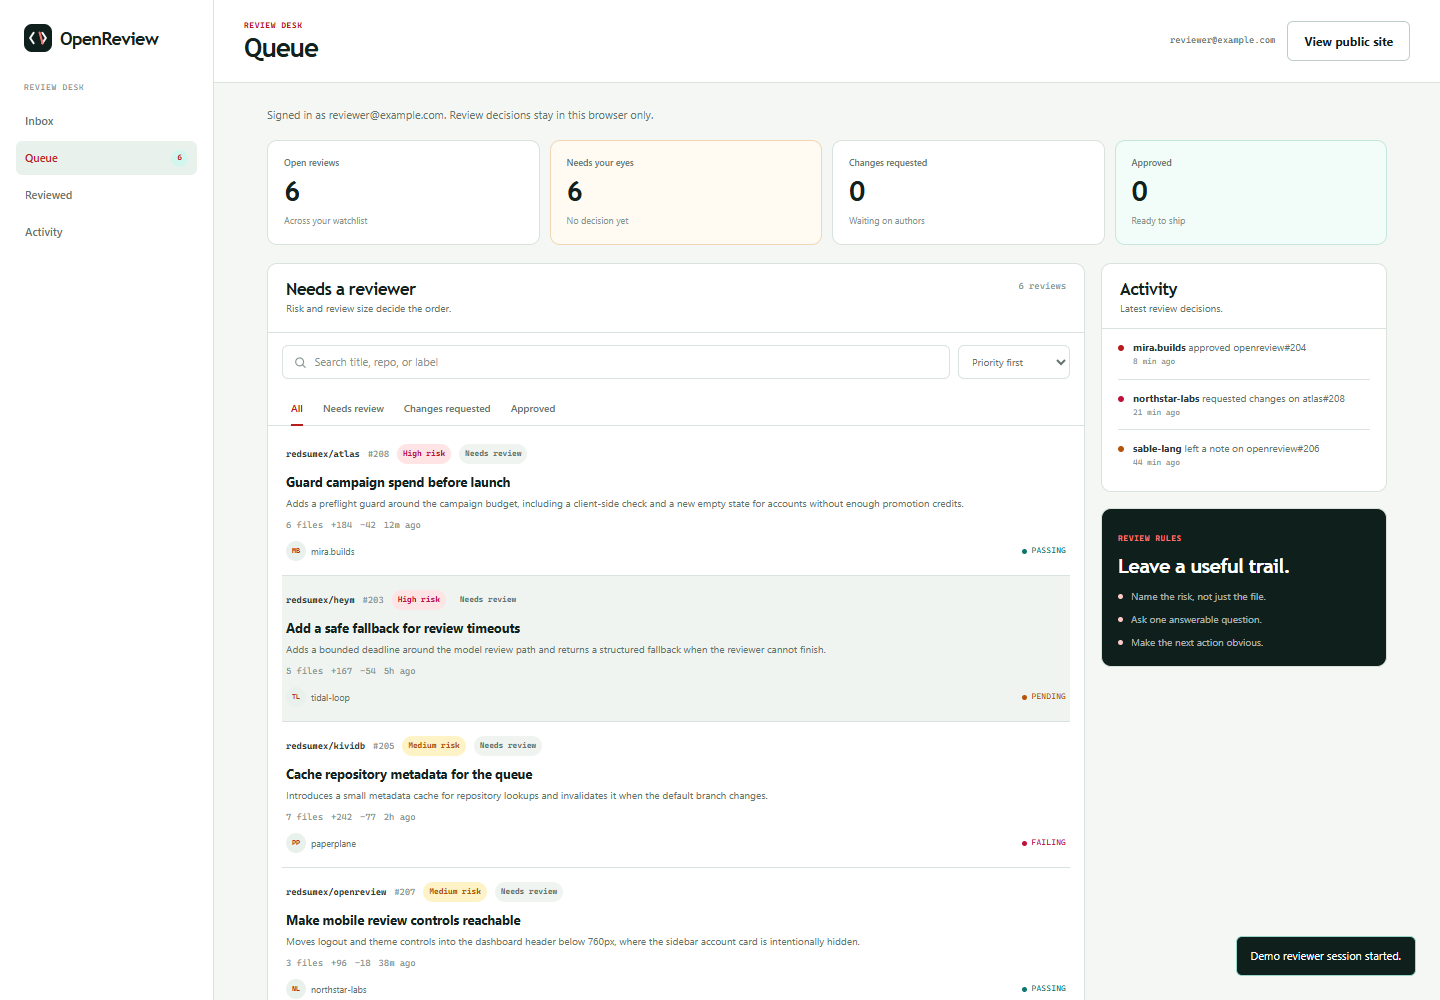
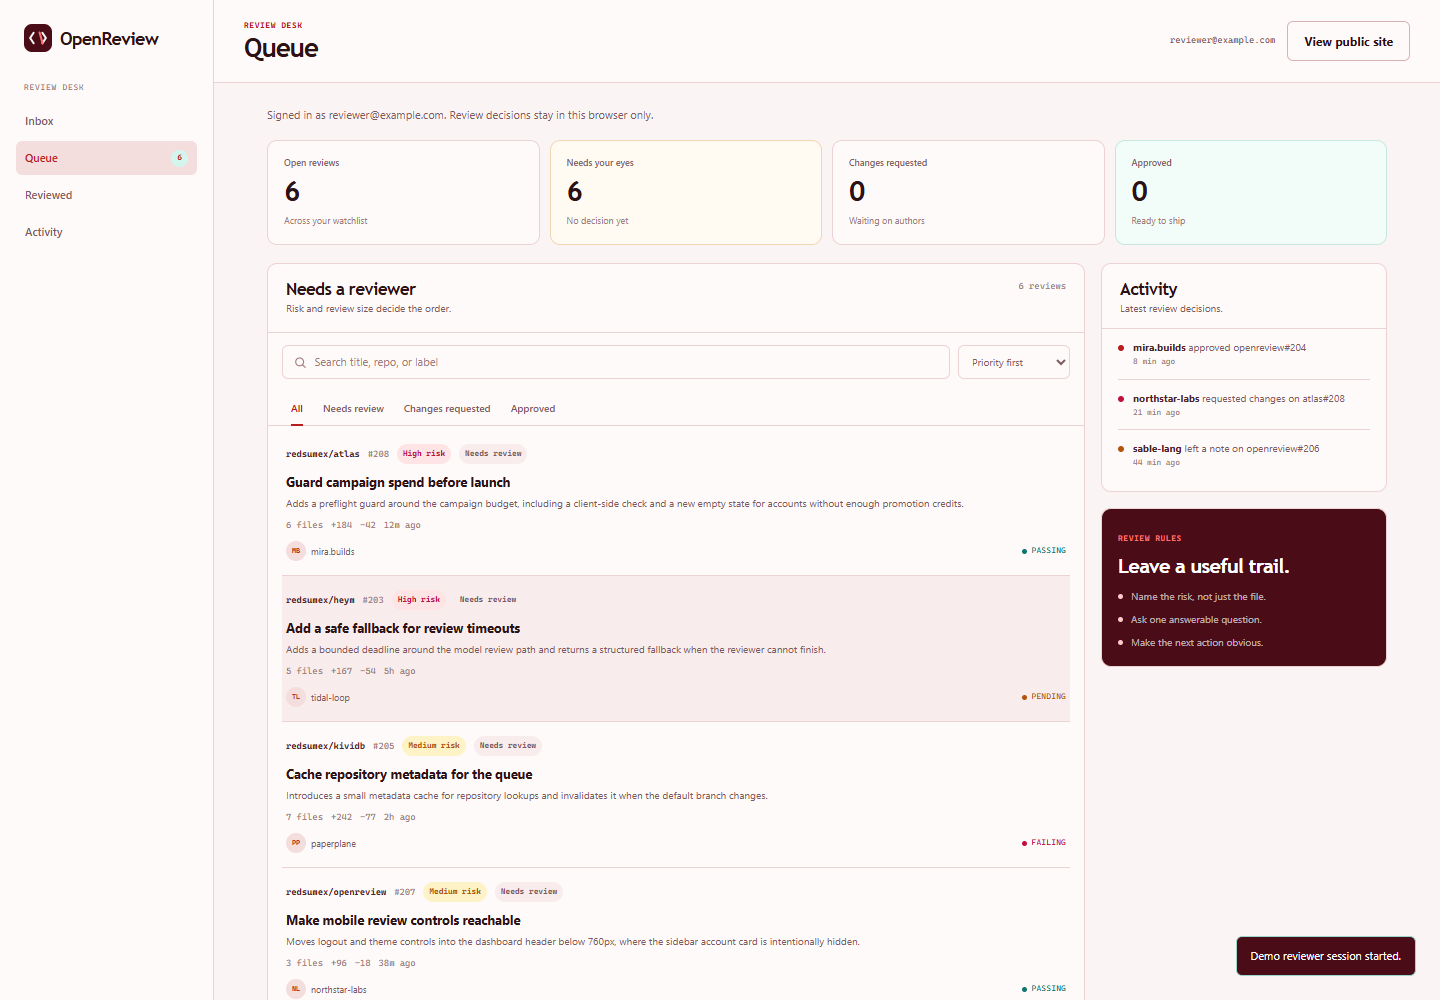
style: make both OpenReview themes red
Tint the light and dark surfaces toward burgundy, switch the logo tile and darker panels to red, and refresh light and dark previews while keeping approved and passing states green.

Changed region(s): [[0.75, 0.496, 0.9688, 0.682], [0.8438, 0.93, 1.0, 0.992], [0.0, 0.031, 0.0625, 0.062]]

diff --git a/styles.css b/styles.css
@@ -1,16 +1,16 @@
 :root {
-  --ink: #13211e;
-  --ink-soft: #2c3b36;
-  --muted: #64736d;
-  --muted-soft: #87938f;
-  --paper: #f5f7f4;
-  --surface: #ffffff;
-  --surface-soft: #f0f4f1;
-  --surface-tint: #e9f1ed;
-  --border: #d9e2dd;
-  --border-strong: #bfcdc7;
-  --dark: #0f1f1c;
-  --dark-soft: #18302b;
+  --ink: #2b1215;
+  --ink-soft: #4c2529;
+  --muted: #7d5a5f;
+  --muted-soft: #a17b80;
+  --paper: #fbf4f4;
+  --surface: #fffafa;
+  --surface-soft: #f8ecec;
+  --surface-tint: #f4dddd;
+  --border: #ecd2d3;
+  --border-strong: #d8b1b3;
+  --dark: #4a0d18;
+  --dark-soft: #681522;
   --mint: #f87171;
   --green: #b91c1c;
   --green-deep: #7f1d1d;
@@ -26,7 +26,7 @@
   --radius-sm: 6px;
   --radius-md: 10px;
   --radius-lg: 16px;
-  --shadow: 0 18px 50px rgba(15, 31, 28, 0.08);
+  --shadow: 0 18px 50px rgba(74, 13, 24, 0.1);
   --font-display: "Trebuchet MS", "Segoe UI", sans-serif;
   --font-body: "Segoe UI", -apple-system, BlinkMacSystemFont, sans-serif;
   --font-mono: "Cascadia Code", "SFMono-Regular", Consolas, monospace;
@@ -1835,22 +1835,22 @@ p {
 /* Dark theme */
 
 html[data-theme="dark"] {
-  --ink: #e7f1ec;
-  --ink-soft: #c7d8d1;
-  --muted: #93a79f;
-  --muted-soft: #72867f;
-  --paper: #0b1714;
-  --surface: #101f1b;
-  --surface-soft: #162923;
-  --surface-tint: #19332c;
-  --border: #28423a;
-  --border-strong: #3a5b51;
+  --ink: #fbecec;
+  --ink-soft: #e3c8ca;
+  --muted: #c49a9e;
+  --muted-soft: #a6777c;
+  --paper: #17090d;
+  --surface: #250d13;
+  --surface-soft: #32131a;
+  --surface-tint: #3b161e;
+  --border: #54262d;
+  --border-strong: #71363e;
   --shadow: 0 18px 50px rgba(0, 0, 0, 0.28);
 }
 
 html[data-theme="dark"] .public-topbar,
 html[data-theme="dark"] .app-sidebar {
-  background: #0a1512;
+  background: #2a0810;
 }
 
 html[data-theme="dark"] .public-footer,
@@ -1871,7 +1871,7 @@ html[data-theme="dark"] .review-dialog {
 html[data-theme="dark"] .step-card-accent,
 html[data-theme="dark"] .closing-cta,
 html[data-theme="dark"] .rail-card-rules {
-  background: #132b25;
+  background: #3a0d17;
 }
 
 html[data-theme="dark"] .queue-shape {

diff --git a/index.html b/index.html
@@ -14,7 +14,7 @@
       <div class="shell topbar-inner">
         <a class="brand" href="#top" aria-label="OpenReview home">
           <svg class="brand-mark" viewBox="0 0 32 32" aria-hidden="true">
-            <rect width="32" height="32" rx="9" fill="#0f1f1c"/>
+            <rect width="32" height="32" rx="9" fill="#4a0d18"/>
             <path d="m11 10-4 6 4 6M21 10l4 6-4 6" fill="none" stroke="#f4f7f5" stroke-width="2.4" stroke-linecap="round" stroke-linejoin="round"/>
             <path d="m17.8 9.8 3.5 12.4" fill="none" stroke="#f87171" stroke-width="2.4" stroke-linecap="round"/>
           </svg>
@@ -182,7 +182,7 @@
       <div class="shell footer-inner">
         <a class="brand" href="#top" aria-label="OpenReview home">
           <svg class="brand-mark" viewBox="0 0 32 32" aria-hidden="true">
-            <rect width="32" height="32" rx="9" fill="#0f1f1c"/>
+            <rect width="32" height="32" rx="9" fill="#4a0d18"/>
             <path d="m11 10-4 6 4 6M21 10l4 6-4 6" fill="none" stroke="#f4f7f5" stroke-width="2.4" stroke-linecap="round" stroke-linejoin="round"/>
             <path d="m17.8 9.8 3.5 12.4" fill="none" stroke="#f87171" stroke-width="2.4" stroke-linecap="round"/>
           </svg>
@@ -198,7 +198,7 @@
     <aside class="app-sidebar">
       <a class="app-brand" href="#app-overview" aria-label="OpenReview dashboard">
         <svg class="brand-mark" viewBox="0 0 32 32" aria-hidden="true">
-          <rect width="32" height="32" rx="9" fill="#0f1f1c"/>
+          <rect width="32" height="32" rx="9" fill="#4a0d18"/>
           <path d="m11 10-4 6 4 6M21 10l4 6-4 6" fill="none" stroke="#f4f7f5" stroke-width="2.4" stroke-linecap="round" stroke-linejoin="round"/>
           <path d="m17.8 9.8 3.5 12.4" fill="none" stroke="#f87171" stroke-width="2.4" stroke-linecap="round"/>
         </svg>
